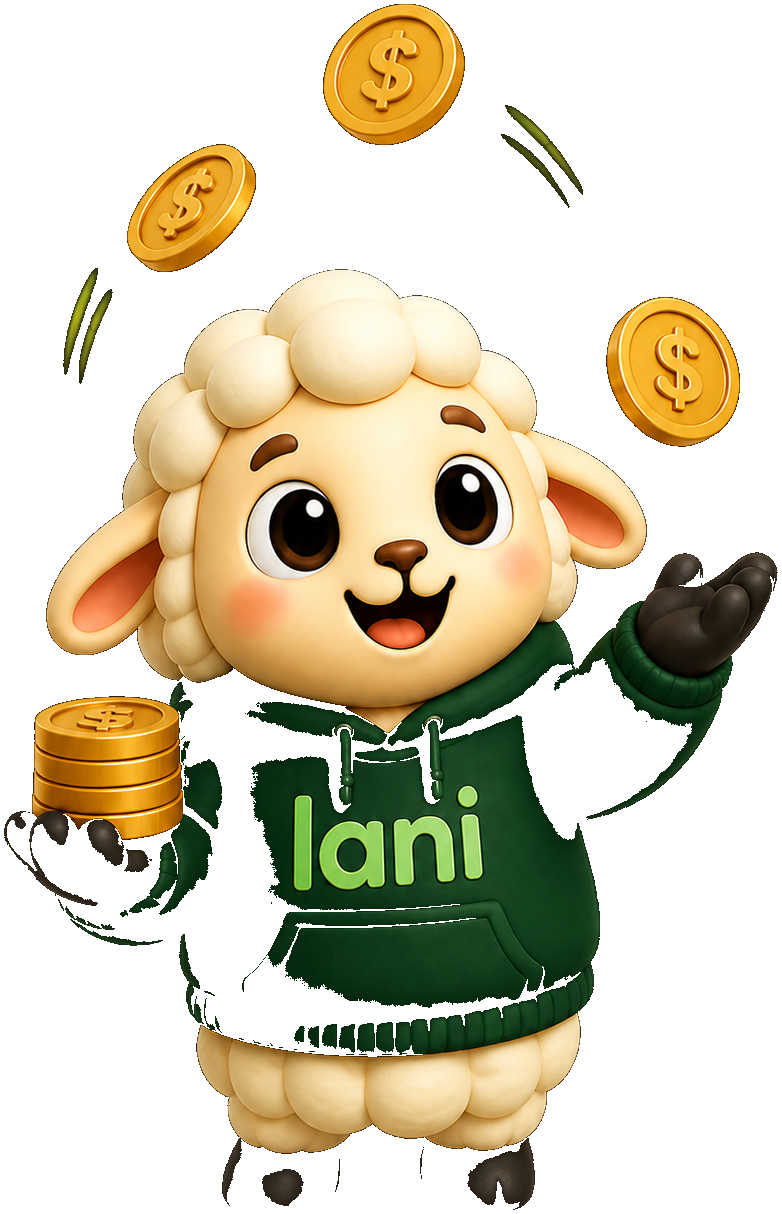
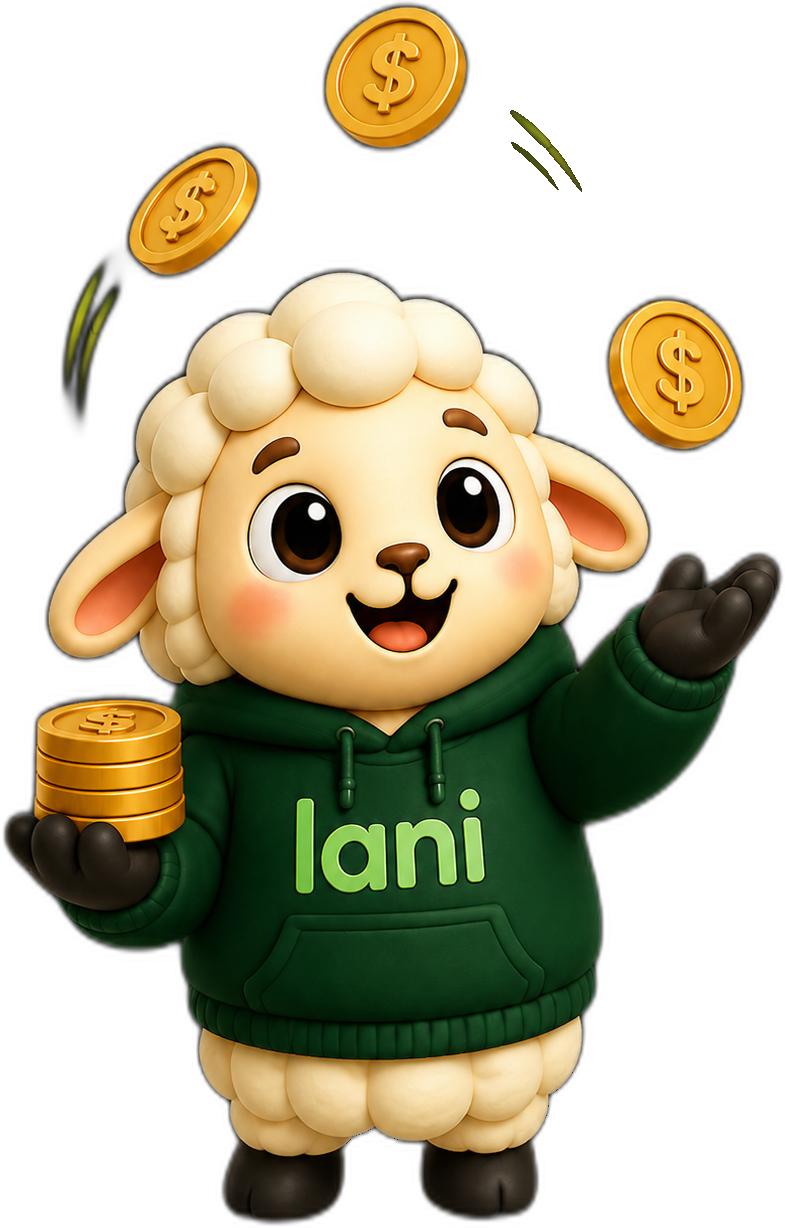
Login: recorte limpio con rembg + reduce altura imagen a 38%

diff --git a/src/app/login/page.tsx b/src/app/login/page.tsx
@@ -57,10 +57,10 @@ export default function LoginPage() {
       fontFamily:  "-apple-system, BlinkMacSystemFont, 'SF Pro Display', 'Segoe UI', sans-serif",
     }}>
 
-      {/* ── TOP 45% — Lani ─────────────────────────────────────────────────── */}
+      {/* ── TOP 38% — Lani ─────────────────────────────────────────────────── */}
       <div style={{
         flexShrink: 0,
-        height:     "45%",
+        height:     "38%",
         display:    "flex",
         flexDirection: "column",
         alignItems: "center",
